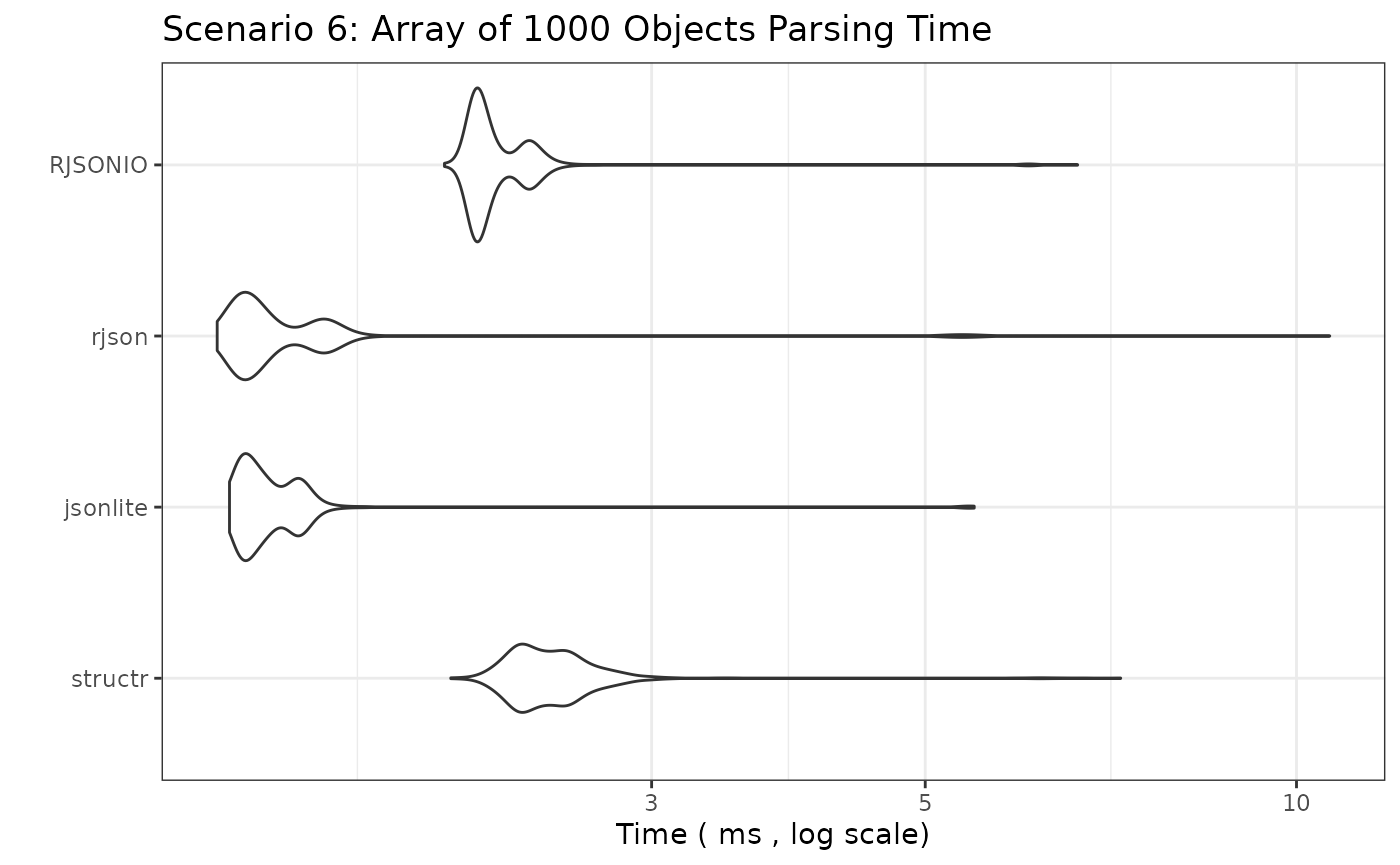
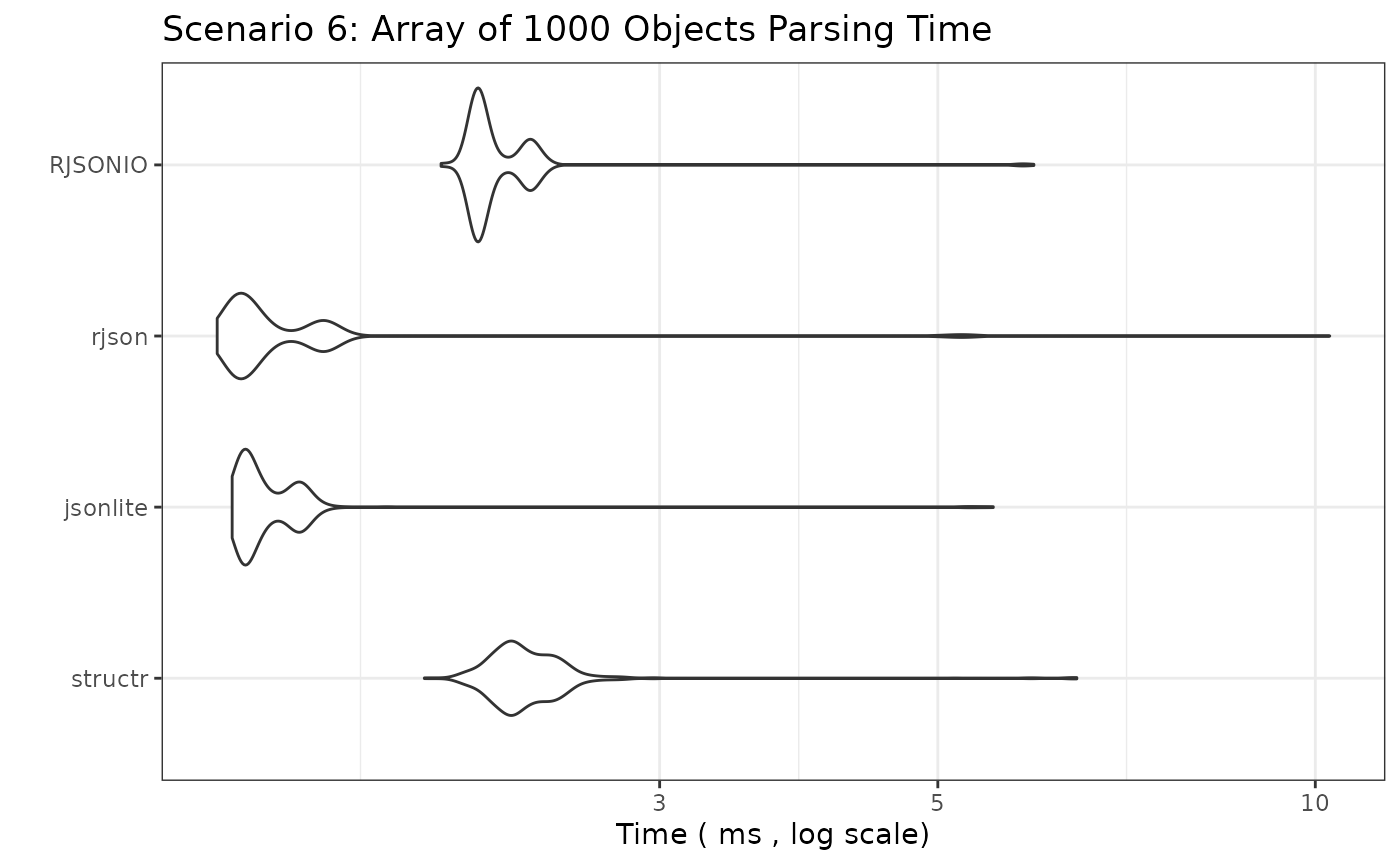
Deploying to gh-pages from @ ixpantia/structr@99eb72c0bf1404046f5921a23b9b94696ceb7406 🚀

diff --git a/articles/bench.html b/articles/bench.html
@@ -155,11 +155,11 @@ speed.</p>
 <span>  y_label <span class="op">=</span> <span class="fu"><a href="https://rdrr.io/r/base/paste.html" class="external-link">paste</a></span><span class="op">(</span><span class="st">"Time ("</span>, <span class="va">benchmark_unit_fast</span>, <span class="st">", log scale)"</span><span class="op">)</span></span>
 <span><span class="op">)</span></span></code></pre></div>
 <pre><code><span><span class="co">## Unit: microseconds</span></span>
-<span><span class="co">##      expr    min      lq     mean  median      uq      max neval</span></span>
-<span><span class="co">##   structr  4.900  7.0330  9.02277  9.0820 10.3445   33.102  1000</span></span>
-<span><span class="co">##  jsonlite 41.407 48.6110 56.74318 53.4145 61.3145  164.257  1000</span></span>
-<span><span class="co">##     rjson 28.103 35.0905 41.23999 40.0445 43.6365  117.610  1000</span></span>
-<span><span class="co">##   RJSONIO 33.763 41.5630 50.25814 46.1060 50.4790 2905.016  1000</span></span></code></pre>
+<span><span class="co">##      expr    min      lq      mean  median     uq      max neval</span></span>
+<span><span class="co">##   structr  4.649  6.4770  8.395685  8.4410  9.678   29.726  1000</span></span>
+<span><span class="co">##  jsonlite 41.277 47.5690 54.801872 52.1870 60.027  161.010  1000</span></span>
+<span><span class="co">##     rjson 27.993 35.0455 40.290231 39.4890 43.080   91.581  1000</span></span>
+<span><span class="co">##   RJSONIO 33.081 41.1965 48.815744 45.2445 49.793 2596.534  1000</span></span></code></pre>
 <p><img src="bench_files/figure-html/bm_simple_object-1.png" width="700" style="display: block; margin: auto;"></p>
 </div>
 <div class="section level3">
@@ -179,11 +179,11 @@ speed.</p>
 <span>  y_label <span class="op">=</span> <span class="fu"><a href="https://rdrr.io/r/base/paste.html" class="external-link">paste</a></span><span class="op">(</span><span class="st">"Time ("</span>, <span class="va">benchmark_unit_fast</span>, <span class="st">", log scale)"</span><span class="op">)</span></span>
 <span><span class="op">)</span></span></code></pre></div>
 <pre><code><span><span class="co">## Unit: microseconds</span></span>
-<span><span class="co">##      expr    min      lq      mean  median      uq      max neval</span></span>
-<span><span class="co">##   structr  3.627  5.7560  7.238815  7.3190  8.4760   31.529  1000</span></span>
-<span><span class="co">##  jsonlite 31.929 36.9740 40.382227 40.1000 42.4995   86.821  1000</span></span>
-<span><span class="co">##     rjson 31.138 36.3225 41.862997 42.4390 45.0240  105.998  1000</span></span>
-<span><span class="co">##   RJSONIO 44.663 50.8945 58.711869 54.5865 57.5570 3391.512  1000</span></span></code></pre>
+<span><span class="co">##      expr    min      lq      mean  median     uq      max neval</span></span>
+<span><span class="co">##   structr  3.807  5.8860  7.198468  7.3085  8.471   30.096  1000</span></span>
+<span><span class="co">##  jsonlite 31.959 37.0695 41.257056 40.1050 42.584   99.556  1000</span></span>
+<span><span class="co">##     rjson 31.979 36.4380 42.193361 42.3040 44.729  109.765  1000</span></span>
+<span><span class="co">##   RJSONIO 44.343 50.7700 59.598124 54.4110 57.507 3603.843  1000</span></span></code></pre>
 <p><img src="bench_files/figure-html/bm_simple_array_int-1.png" width="700" style="display: block; margin: auto;"></p>
 </div>
 <div class="section level3">
@@ -203,11 +203,11 @@ speed.</p>
 <span>  y_label <span class="op">=</span> <span class="fu"><a href="https://rdrr.io/r/base/paste.html" class="external-link">paste</a></span><span class="op">(</span><span class="st">"Time ("</span>, <span class="va">benchmark_unit_fast</span>, <span class="st">", log scale)"</span><span class="op">)</span></span>
 <span><span class="op">)</span></span></code></pre></div>
 <pre><code><span><span class="co">## Unit: microseconds</span></span>
-<span><span class="co">##      expr    min      lq      mean median      uq      max neval</span></span>
-<span><span class="co">##   structr  4.218  6.0665  7.274424  7.364  8.3255   29.796  1000</span></span>
-<span><span class="co">##  jsonlite 25.257 28.8990 32.301678 32.311 34.1985   84.457  1000</span></span>
-<span><span class="co">##     rjson 29.124 32.7265 37.918101 38.197 41.1560  122.729  1000</span></span>
-<span><span class="co">##   RJSONIO 39.694 44.6480 52.569191 49.047 52.2875 3123.763  1000</span></span></code></pre>
+<span><span class="co">##      expr    min      lq      mean  median      uq      max neval</span></span>
+<span><span class="co">##   structr  4.268  5.8410  7.034094  7.0930  8.0750   27.782  1000</span></span>
+<span><span class="co">##  jsonlite 24.516 28.0275 31.663562 31.8290 33.4170   80.381  1000</span></span>
+<span><span class="co">##     rjson 28.433 32.0850 37.249660 37.7850 40.4955  111.187  1000</span></span>
+<span><span class="co">##   RJSONIO 38.883 43.0300 51.376313 47.8845 51.1305 3121.624  1000</span></span></code></pre>
 <p><img src="bench_files/figure-html/bm_simple_array_str-1.png" width="700" style="display: block; margin: auto;"></p>
 </div>
 <div class="section level3">
@@ -228,11 +228,11 @@ speed.</p>
 <span>  y_label <span class="op">=</span> <span class="fu"><a href="https://rdrr.io/r/base/paste.html" class="external-link">paste</a></span><span class="op">(</span><span class="st">"Time ("</span>, <span class="va">benchmark_unit_fast</span>, <span class="st">", log scale)"</span><span class="op">)</span></span>
 <span><span class="op">)</span></span></code></pre></div>
 <pre><code><span><span class="co">## Unit: microseconds</span></span>
-<span><span class="co">##      expr    min      lq     mean  median      uq      max neval</span></span>
-<span><span class="co">##   structr 17.192 21.7555 25.09561 25.3180 27.3510   75.220  1000</span></span>
-<span><span class="co">##  jsonlite 26.440 32.5250 36.67713 36.3080 39.0530   79.518  1000</span></span>
-<span><span class="co">##     rjson 41.257 48.2745 55.02624 55.4030 58.9295  127.006  1000</span></span>
-<span><span class="co">##   RJSONIO 53.330 62.3810 70.67295 66.8045 71.0725 2940.962  1000</span></span></code></pre>
+<span><span class="co">##      expr    min      lq     mean  median     uq      max neval</span></span>
+<span><span class="co">##   structr 16.341 21.2650 24.43637 24.3905 26.349   73.718  1000</span></span>
+<span><span class="co">##  jsonlite 25.708 32.3155 36.77939 36.5680 38.912   73.006  1000</span></span>
+<span><span class="co">##     rjson 40.366 48.2750 54.99315 54.4270 57.833  117.209  1000</span></span>
+<span><span class="co">##   RJSONIO 53.760 61.6045 70.49977 65.7575 69.961 2861.799  1000</span></span></code></pre>
 <p><img src="bench_files/figure-html/bm_nested_object-1.png" width="700" style="display: block; margin: auto;"></p>
 </div>
 <div class="section level3">
@@ -252,11 +252,11 @@ speed.</p>
 <span>  y_label <span class="op">=</span> <span class="fu"><a href="https://rdrr.io/r/base/paste.html" class="external-link">paste</a></span><span class="op">(</span><span class="st">"Time ("</span>, <span class="va">benchmark_unit_medium</span>, <span class="st">", log scale)"</span><span class="op">)</span></span>
 <span><span class="op">)</span></span></code></pre></div>
 <pre><code><span><span class="co">## Unit: milliseconds</span></span>
-<span><span class="co">##      expr      min        lq      mean    median       uq      max neval</span></span>
-<span><span class="co">##   structr 0.176338 0.2229700 0.2546936 0.2379535 0.252446 3.453147   500</span></span>
-<span><span class="co">##  jsonlite 0.122068 0.1504850 0.1547849 0.1566870 0.162283 0.239777   500</span></span>
-<span><span class="co">##     rjson 0.161441 0.1789785 0.1940448 0.1976690 0.205318 0.261407   500</span></span>
-<span><span class="co">##   RJSONIO 0.247331 0.2638670 0.2809444 0.2714610 0.283183 3.566298   500</span></span></code></pre>
+<span><span class="co">##      expr      min        lq      mean    median        uq      max neval</span></span>
+<span><span class="co">##   structr 0.175087 0.2106885 0.2419952 0.2253005 0.2386860 3.409662   500</span></span>
+<span><span class="co">##  jsonlite 0.120685 0.1495185 0.1538387 0.1557910 0.1615565 0.246229   500</span></span>
+<span><span class="co">##     rjson 0.161752 0.1772310 0.1921014 0.1957400 0.2037255 0.339450   500</span></span>
+<span><span class="co">##   RJSONIO 0.246229 0.2596740 0.2775724 0.2684360 0.2809540 3.453713   500</span></span></code></pre>
 <p><img src="bench_files/figure-html/bm_array_of_objects-1.png" width="700" style="display: block; margin: auto;"></p>
 </div>
 <div class="section level3">
@@ -280,10 +280,10 @@ speed.</p>
 <span><span class="op">)</span></span></code></pre></div>
 <pre><code><span><span class="co">## Unit: milliseconds</span></span>
 <span><span class="co">##      expr      min       lq     mean   median       uq       max neval</span></span>
-<span><span class="co">##   structr 2.061904 2.346369 2.529860 2.460366 2.586091  7.201975   500</span></span>
-<span><span class="co">##  jsonlite 1.364123 1.400270 1.505318 1.443561 1.539545  5.478933   500</span></span>
-<span><span class="co">##     rjson 1.333125 1.391168 1.597127 1.429380 1.596832 10.640655   500</span></span>
-<span><span class="co">##   RJSONIO 2.037698 2.157306 2.280629 2.183345 2.353833  6.645557   500</span></span></code></pre>
+<span><span class="co">##   structr 1.947503 2.250394 2.386582 2.319848 2.443223  6.454091   500</span></span>
+<span><span class="co">##  jsonlite 1.368383 1.397242 1.493211 1.420866 1.529540  5.536219   500</span></span>
+<span><span class="co">##     rjson 1.331274 1.378527 1.570004 1.410121 1.577103 10.269069   500</span></span>
+<span><span class="co">##   RJSONIO 2.008166 2.141761 2.249032 2.157755 2.331380  5.964568   500</span></span></code></pre>
 <p><img src="bench_files/figure-html/bm_large_array_of_objects-1.png" width="700" style="display: block; margin: auto;"></p>
 </div>
 <div class="section level3">
@@ -305,11 +305,11 @@ speed.</p>
 <span>  y_label <span class="op">=</span> <span class="fu"><a href="https://rdrr.io/r/base/paste.html" class="external-link">paste</a></span><span class="op">(</span><span class="st">"Time ("</span>, <span class="va">benchmark_unit_medium</span>, <span class="st">", log scale)"</span><span class="op">)</span></span>
 <span><span class="op">)</span></span></code></pre></div>
 <pre><code><span><span class="co">## Unit: milliseconds</span></span>
-<span><span class="co">##      expr      min        lq      mean    median        uq      max neval</span></span>
-<span><span class="co">##   structr 0.189062 0.1944575 0.2093886 0.2021465 0.2240575 0.284460   500</span></span>
-<span><span class="co">##  jsonlite 2.470184 2.6387890 2.7886052 2.7161135 2.7914335 6.445535   500</span></span>
-<span><span class="co">##     rjson 1.046280 1.0686620 1.1599319 1.0877780 1.1131950 5.031148   500</span></span>
-<span><span class="co">##   RJSONIO 2.511291 2.5492525 2.6488075 2.5639345 2.5862355 6.936981   500</span></span></code></pre>
+<span><span class="co">##      expr      min       lq      mean   median       uq      max neval</span></span>
+<span><span class="co">##   structr 0.188993 0.193987 0.2085216 0.201326 0.222776 0.338812   500</span></span>
+<span><span class="co">##  jsonlite 2.470499 2.627267 2.7925804 2.694943 2.764498 9.652027   500</span></span>
+<span><span class="co">##     rjson 1.046262 1.067902 1.1576628 1.083326 1.108593 4.726378   500</span></span>
+<span><span class="co">##   RJSONIO 2.505254 2.540329 2.6257726 2.554791 2.577640 6.954906   500</span></span></code></pre>
 <p><img src="bench_files/figure-html/bm_large_array_int-1.png" width="700" style="display: block; margin: auto;"></p>
 </div>
 <div class="section level3">
@@ -331,11 +331,11 @@ speed.</p>
 <span>  y_label <span class="op">=</span> <span class="fu"><a href="https://rdrr.io/r/base/paste.html" class="external-link">paste</a></span><span class="op">(</span><span class="st">"Time ("</span>, <span class="va">benchmark_unit_medium</span>, <span class="st">", log scale)"</span><span class="op">)</span></span>
 <span><span class="op">)</span></span></code></pre></div>
 <pre><code><span><span class="co">## Unit: milliseconds</span></span>
-<span><span class="co">##      expr      min       lq      mean    median        uq       max neval</span></span>
-<span><span class="co">##   structr 0.674367 0.690442 0.7128009 0.7074295 0.7292045  1.065135   500</span></span>
-<span><span class="co">##  jsonlite 2.234425 2.317440 2.4451515 2.3854665 2.4651205  6.018699   500</span></span>
-<span><span class="co">##     rjson 1.308950 1.332113 1.5995878 1.3635770 1.3922600 80.843498   500</span></span>
-<span><span class="co">##   RJSONIO 3.476410 3.517748 3.6277125 3.5394675 3.5718280  7.500942   500</span></span></code></pre>
+<span><span class="co">##      expr      min       lq      mean   median        uq       max neval</span></span>
+<span><span class="co">##   structr 0.681782 0.698719 0.7212037 0.713271 0.7383825  1.130850   500</span></span>
+<span><span class="co">##  jsonlite 2.235501 2.327653 2.4461236 2.395059 2.4672775  5.893465   500</span></span>
+<span><span class="co">##     rjson 1.345330 1.369525 1.6245735 1.400257 1.4221335 77.774182   500</span></span>
+<span><span class="co">##   RJSONIO 3.416083 3.458197 3.5595576 3.482142 3.5075890  7.231542   500</span></span></code></pre>
 <p><img src="bench_files/figure-html/bm_large_array_str-1.png" width="700" style="display: block; margin: auto;"></p>
 </div>
 <div class="section level3">
@@ -356,11 +356,11 @@ speed.</p>
 <span>  y_label <span class="op">=</span> <span class="fu"><a href="https://rdrr.io/r/base/paste.html" class="external-link">paste</a></span><span class="op">(</span><span class="st">"Time ("</span>, <span class="va">benchmark_unit_fast</span>, <span class="st">", log scale)"</span><span class="op">)</span></span>
 <span><span class="op">)</span></span></code></pre></div>
 <pre><code><span><span class="co">## Unit: microseconds</span></span>
-<span><span class="co">##      expr    min      lq     mean  median      uq      max neval</span></span>
-<span><span class="co">##   structr 12.543 14.8225 16.97672 16.8920 18.3440   45.816  1000</span></span>
-<span><span class="co">##  jsonlite 16.070 19.4310 22.30582 22.2270 23.8595   83.395  1000</span></span>
-<span><span class="co">##     rjson 29.034 34.1085 42.28573 39.1430 41.6325 3551.210  1000</span></span>
-<span><span class="co">##   RJSONIO 37.650 42.6690 47.13731 46.9025 49.6975  132.837  1000</span></span></code></pre>
+<span><span class="co">##      expr    min     lq     mean  median      uq      max neval</span></span>
+<span><span class="co">##   structr 12.373 14.477 16.95470 16.7310 18.1685   49.522  1000</span></span>
+<span><span class="co">##  jsonlite 16.110 18.745 25.68532 21.9960 23.6240 3429.238  1000</span></span>
+<span><span class="co">##     rjson 28.674 34.054 39.57854 39.0170 41.7680  108.823  1000</span></span>
+<span><span class="co">##   RJSONIO 36.939 42.299 48.10787 46.7225 49.6825  123.510  1000</span></span></code></pre>
 <p><img src="bench_files/figure-html/bm_deep_nest-1.png" width="700" style="display: block; margin: auto;"></p>
 </div>
 <div class="section level3">
@@ -382,10 +382,10 @@ speed.</p>
 <span><span class="op">)</span></span></code></pre></div>
 <pre><code><span><span class="co">## Unit: milliseconds</span></span>
 <span><span class="co">##      expr      min        lq       mean    median        uq      max neval</span></span>
-<span><span class="co">##   structr 0.056275 0.0670855 0.07274820 0.0710670 0.0745940 0.131716   500</span></span>
-<span><span class="co">##  jsonlite 0.039624 0.0480395 0.05407599 0.0523025 0.0554840 0.109184   500</span></span>
-<span><span class="co">##     rjson 0.061404 0.0702610 0.07942248 0.0773740 0.0816525 0.176940   500</span></span>
-<span><span class="co">##   RJSONIO 0.082204 0.0890460 0.09862707 0.0948920 0.1017195 0.193641   500</span></span></code></pre>
+<span><span class="co">##   structr 0.054151 0.0631580 0.06815985 0.0679215 0.0709170 0.115736   500</span></span>
+<span><span class="co">##  jsonlite 0.038833 0.0467670 0.05100620 0.0505445 0.0530540 0.095088   500</span></span>
+<span><span class="co">##     rjson 0.061755 0.0695295 0.07605581 0.0762720 0.0799195 0.164908   500</span></span>
+<span><span class="co">##   RJSONIO 0.079397 0.0868220 0.09348636 0.0919770 0.0979530 0.179446   500</span></span></code></pre>
 <p><img src="bench_files/figure-html/bm_wide_object-1.png" width="700" style="display: block; margin: auto;"></p>
 </div>
 </div>

diff --git a/reference/s_vector.html b/reference/s_vector.html
@@ -72,9 +72,9 @@ vector. This should be the result of another <code>s_*</code> function call (e.g
     <div class="sourceCode"><pre class="sourceCode r"><code><span class="r-in"><span><span class="co"># Define a vector of strings</span></span></span>
 <span class="r-in"><span><span class="va">vec_str_def</span> <span class="op">&lt;-</span> <span class="fu">s_vector</span><span class="op">(</span><span class="fu"><a href="structure_atomics.html">s_string</a></span><span class="op">(</span><span class="op">)</span><span class="op">)</span></span></span>
 <span class="r-in"><span><span class="fu"><a href="build_structure.html">build_structure</a></span><span class="op">(</span><span class="va">vec_str_def</span><span class="op">)</span></span></span>
-<span class="r-out co"><span class="r-pr">#&gt;</span> &lt;pointer: 0x561a8a319150&gt;</span>
-<span class="r-out co"><span class="r-pr">#&gt;</span> attr(,"class")</span>
-<span class="r-out co"><span class="r-pr">#&gt;</span> [1] "Structure"</span>
+<span class="r-out co"><span class="r-pr">#&gt;</span> Vector(</span>
+<span class="r-out co"><span class="r-pr">#&gt;</span>     String,</span>
+<span class="r-out co"><span class="r-pr">#&gt;</span> )</span>
 <span class="r-in"><span><span class="co"># Expected: list(type = "vector", value = list(type = "string"))</span></span></span>
 <span class="r-in"><span></span></span>
 <span class="r-in"><span><span class="co"># Define a vector of objects, each having an 'id' (integer) and 'name' (string)</span></span></span>
@@ -82,9 +82,19 @@ vector. This should be the result of another <code>s_*</code> function call (e.g
 <span class="r-in"><span>  <span class="fu"><a href="s_map.html">s_map</a></span><span class="op">(</span>id <span class="op">=</span> <span class="fu"><a href="structure_atomics.html">s_integer</a></span><span class="op">(</span><span class="op">)</span>, name <span class="op">=</span> <span class="fu"><a href="structure_atomics.html">s_string</a></span><span class="op">(</span><span class="op">)</span><span class="op">)</span></span></span>
 <span class="r-in"><span><span class="op">)</span></span></span>
 <span class="r-in"><span><span class="fu"><a href="build_structure.html">build_structure</a></span><span class="op">(</span><span class="va">vec_obj_def</span><span class="op">)</span></span></span>
-<span class="r-out co"><span class="r-pr">#&gt;</span> &lt;pointer: 0x561a8f4cc7d0&gt;</span>
-<span class="r-out co"><span class="r-pr">#&gt;</span> attr(,"class")</span>
-<span class="r-out co"><span class="r-pr">#&gt;</span> [1] "Structure"</span>
+<span class="r-out co"><span class="r-pr">#&gt;</span> Vector(</span>
+<span class="r-out co"><span class="r-pr">#&gt;</span>     Map {</span>
+<span class="r-out co"><span class="r-pr">#&gt;</span>         fields: {</span>
+<span class="r-out co"><span class="r-pr">#&gt;</span>             "id": Integer,</span>
+<span class="r-out co"><span class="r-pr">#&gt;</span>             "name": String,</span>
+<span class="r-out co"><span class="r-pr">#&gt;</span>         },</span>
+<span class="r-out co"><span class="r-pr">#&gt;</span>         ignore_extra_fields: false,</span>
+<span class="r-out co"><span class="r-pr">#&gt;</span>         expected_fields_str: [</span>
+<span class="r-out co"><span class="r-pr">#&gt;</span>             "id",</span>
+<span class="r-out co"><span class="r-pr">#&gt;</span>             "name",</span>
+<span class="r-out co"><span class="r-pr">#&gt;</span>         ],</span>
+<span class="r-out co"><span class="r-pr">#&gt;</span>     },</span>
+<span class="r-out co"><span class="r-pr">#&gt;</span> )</span>
 <span class="r-in"><span><span class="co"># Expected: list(type = "vector", value = list(type = "map",</span></span></span>
 <span class="r-in"><span><span class="co">#                   value = list(id = list(type = "integer"),</span></span></span>
 <span class="r-in"><span><span class="co">#                                name = list(type = "string"))))</span></span></span>

diff --git a/reference/structure_atomics.html b/reference/structure_atomics.html
@@ -74,21 +74,13 @@ s_vector() or s_map() and finalized by build_structure()."></head><body>
     <div class="section level2">
     <h2 id="ref-examples">Examples<a class="anchor" aria-label="anchor" href="#ref-examples"></a></h2>
     <div class="sourceCode"><pre class="sourceCode r"><code><span class="r-in"><span><span class="fu"><a href="build_structure.html">build_structure</a></span><span class="op">(</span><span class="fu">s_integer</span><span class="op">(</span><span class="op">)</span><span class="op">)</span> <span class="co"># list(type = "integer")</span></span></span>
-<span class="r-out co"><span class="r-pr">#&gt;</span> &lt;pointer: 0x561a8b77bd50&gt;</span>
-<span class="r-out co"><span class="r-pr">#&gt;</span> attr(,"class")</span>
-<span class="r-out co"><span class="r-pr">#&gt;</span> [1] "Structure"</span>
+<span class="r-out co"><span class="r-pr">#&gt;</span> Integer</span>
 <span class="r-in"><span><span class="fu"><a href="build_structure.html">build_structure</a></span><span class="op">(</span><span class="fu">s_double</span><span class="op">(</span><span class="op">)</span><span class="op">)</span>  <span class="co"># list(type = "double")</span></span></span>
-<span class="r-out co"><span class="r-pr">#&gt;</span> &lt;pointer: 0x561a8ba08140&gt;</span>
-<span class="r-out co"><span class="r-pr">#&gt;</span> attr(,"class")</span>
-<span class="r-out co"><span class="r-pr">#&gt;</span> [1] "Structure"</span>
+<span class="r-out co"><span class="r-pr">#&gt;</span> Double</span>
 <span class="r-in"><span><span class="fu"><a href="build_structure.html">build_structure</a></span><span class="op">(</span><span class="fu">s_string</span><span class="op">(</span><span class="op">)</span><span class="op">)</span>  <span class="co"># list(type = "string")</span></span></span>
-<span class="r-out co"><span class="r-pr">#&gt;</span> &lt;pointer: 0x561a899480c0&gt;</span>
-<span class="r-out co"><span class="r-pr">#&gt;</span> attr(,"class")</span>
-<span class="r-out co"><span class="r-pr">#&gt;</span> [1] "Structure"</span>
+<span class="r-out co"><span class="r-pr">#&gt;</span> String</span>
 <span class="r-in"><span><span class="fu"><a href="build_structure.html">build_structure</a></span><span class="op">(</span><span class="fu">s_logical</span><span class="op">(</span><span class="op">)</span><span class="op">)</span> <span class="co"># list(type = "logical")</span></span></span>
-<span class="r-out co"><span class="r-pr">#&gt;</span> &lt;pointer: 0x561a89d79ae0&gt;</span>
-<span class="r-out co"><span class="r-pr">#&gt;</span> attr(,"class")</span>
-<span class="r-out co"><span class="r-pr">#&gt;</span> [1] "Structure"</span>
+<span class="r-out co"><span class="r-pr">#&gt;</span> Logical</span>
 </code></pre></div>
     </div>
   </main><aside class="col-md-3"><nav id="toc" aria-label="Table of contents"><h2>On this page</h2>

diff --git a/reference/s_optional.html b/reference/s_optional.html
@@ -90,9 +90,11 @@ call (e.g., <code><a href="structure_atomics.html">s_integer()</a></code>, <code
 <span class="r-in"><span><span class="co"># Define a vector where elements can be integers or null</span></span></span>
 <span class="r-in"><span><span class="va">vec_optional_elements</span> <span class="op">&lt;-</span> <span class="fu"><a href="s_vector.html">s_vector</a></span><span class="op">(</span><span class="fu">s_optional</span><span class="op">(</span><span class="fu"><a href="structure_atomics.html">s_integer</a></span><span class="op">(</span><span class="op">)</span><span class="op">)</span><span class="op">)</span></span></span>
 <span class="r-in"><span><span class="fu"><a href="build_structure.html">build_structure</a></span><span class="op">(</span><span class="va">vec_optional_elements</span><span class="op">)</span></span></span>
-<span class="r-out co"><span class="r-pr">#&gt;</span> &lt;pointer: 0x561a8ad48570&gt;</span>
-<span class="r-out co"><span class="r-pr">#&gt;</span> attr(,"class")</span>
-<span class="r-out co"><span class="r-pr">#&gt;</span> [1] "Structure"</span>
+<span class="r-out co"><span class="r-pr">#&gt;</span> Vector(</span>
+<span class="r-out co"><span class="r-pr">#&gt;</span>     Optional(</span>
+<span class="r-out co"><span class="r-pr">#&gt;</span>         Integer,</span>
+<span class="r-out co"><span class="r-pr">#&gt;</span>     ),</span>
+<span class="r-out co"><span class="r-pr">#&gt;</span> )</span>
 <span class="r-in"><span><span class="co"># Expected (simplified):</span></span></span>
 <span class="r-in"><span><span class="co"># list(type = "vector",</span></span></span>
 <span class="r-in"><span><span class="co">#      value = list(type = "optional", value = list(type = "integer")))</span></span></span>

diff --git a/articles/getting_started.html b/articles/getting_started.html
@@ -229,7 +229,7 @@ throws an informative error.</p>
 <span><span class="st">}'</span></span>
 <span><span class="kw"><a href="https://rdrr.io/r/base/try.html" class="external-link">try</a></span><span class="op">(</span><span class="fu"><a href="../reference/parse_json.html">parse_json</a></span><span class="op">(</span><span class="va">json_extra_field</span>, <span class="va">user_structure</span><span class="op">)</span><span class="op">)</span></span>
 <span><span class="co">#&gt; Error in parse_json(json_extra_field, user_structure) : </span></span>
-<span><span class="co">#&gt;   Serde("unknown field `email`, expected one of `username`, `is_active`, `id`") at character 0</span></span>
+<span><span class="co">#&gt;   Serde("unknown field `email`, expected one of `id`, `is_active`, `username`") at character 0</span></span>
 <span></span>
 <span><span class="co"># Error: Invalid JSON syntax</span></span>
 <span><span class="va">json_syntax_error</span> <span class="op">&lt;-</span> <span class="st">'{ "id": 1 '</span> <span class="co"># Missing closing brace</span></span>
